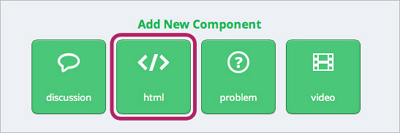
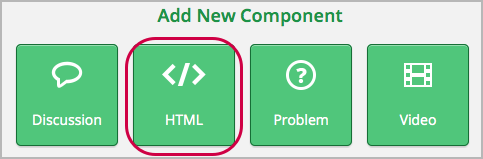
Update screenshots and corresponding UI reference for HTML component

diff --git a/en_us/course_authors/source/creating_content/create_html_component.rst b/en_us/course_authors/source/creating_content/create_html_component.rst
@@ -193,7 +193,7 @@ Create an HTML Component
 
 To create an HTML component:
 
-1. Under **Add New Component**, click **html**.
+1. Under **Add New Component**, click **HTML**.
 
   .. image:: ../Images/NewComponent_HTML.png
    :alt: Image of adding a new HTML component
